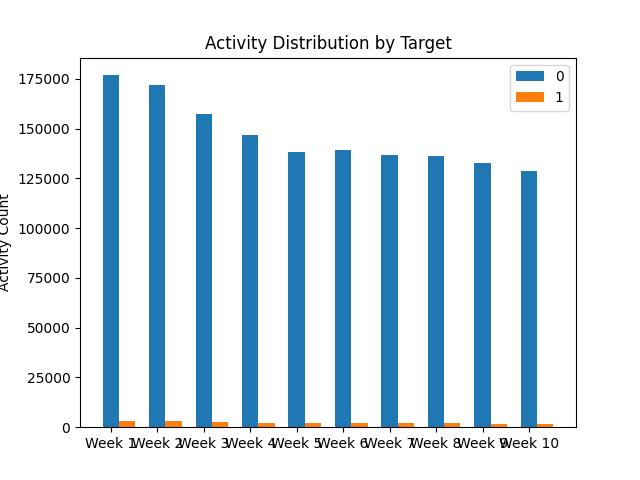
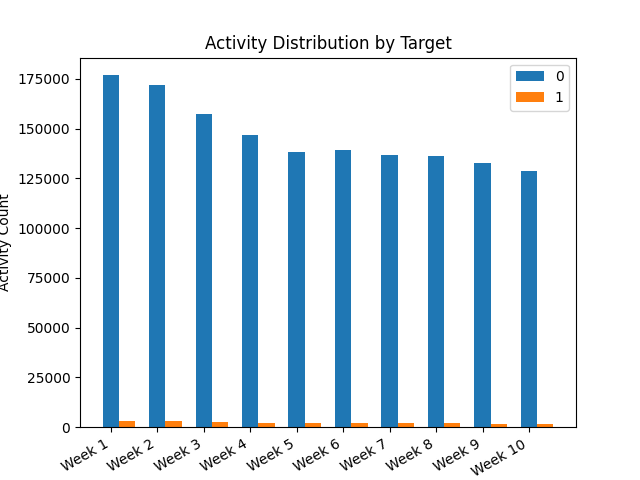
eda

Changed region(s): [[0.0938, 0.9062, 0.875, 1.0]]

diff --git a/eda.py b/eda.py
@@ -6,23 +6,63 @@ import seaborn as sns
 df_train = pd.read_csv('data/merged_countries_train.csv')
 fe_train = pd.read_csv('data/test_fe.csv')
 
-
+print(fe_train.columns.tolist())
 value_counts = df_train['target'].value_counts()
 percentage_1s = (value_counts[1] / len(df_train['target'])) * 100
 percentage_0s = (value_counts[0] / len(df_train['target'])) * 100
 print("Percentage of 1s: {:.2f}%".format(percentage_1s))
 print("Percentage of 0s: {:.2f}%".format(percentage_0s))
+print(df_train.columns.tolist())
+print(df_train.isna().sum())
 
-# print(df_train.isna().sum())
 
-#
+columns_to_plot = ['GOC_to_g_mean', 'SB_to_g_mean', 'ro_g_mean']
+fe_train_columns = ['mk_CurrentCustomer'] + columns_to_plot
+merged_df = pd.merge(fe_train[fe_train_columns], df_train[['mk_CurrentCustomer', 'target']], on='mk_CurrentCustomer')
+data_melted = merged_df.melt(id_vars=['target', 'mk_CurrentCustomer'], var_name='Column', value_name='Value')
+column_order = ['GOC_to_g_mean', 'SB_to_g_mean', 'ro_g_mean']
+plt.figure(figsize=(10, 8))
+ax = sns.barplot(x='Column', y='Value', hue='target', data=data_melted, order=column_order)
+# plt.xlabel('Column', fontsize=14)
+plt.ylabel('Mean Value')
+plt.title('Mean Values of GOC, SB and game rounds grouped by Target', fontsize=16)
+legends = ax.legend(fontsize=14)
+plt.tight_layout()
+plt.savefig('figures/Mean Value by Column and Target.png')
+plt.show()
+
+
+columns_to_plot = ['turnover_last_1day', 'turnover_last_2days', 'turnover_last_3days',
+                   'turnover_last_5days', 'turnover_last_10days', 'turnover_last_20days', 'turnover_last_70days']
+data_to_plot = df_train[columns_to_plot + ['target']]
+data_melted = data_to_plot.melt(id_vars='target', var_name='Turnover Period', value_name='Turnover')
+mean_turnover = data_melted.groupby(['Turnover Period', 'target'])['Turnover'].mean().reset_index()
+mean_turnover['Turnover Period'] = pd.Categorical(mean_turnover['Turnover Period'], categories=columns_to_plot, ordered=True)
+plt.figure(figsize=(12, 10))
+mean_turnover = mean_turnover.sort_values('Turnover Period')
+ax = sns.barplot(x='Turnover Period', y='Turnover', hue='target', data=mean_turnover)
+plt.xlabel('Turnover Period', fontsize=16)
+plt.ylabel('Mean Turnover', fontsize=16)
+plt.title('Mean Turnover by Turnover Period and Target', fontsize=16)
+ax.set_xticklabels(ax.get_xticklabels(), rotation=20, ha='right')
+legends = ax.legend(fontsize=20)
+plt.tight_layout()
+plt.savefig('figures/Mean Turnover by Turnover Period and Target.png')
+plt.show()
+
+
 class_counts = df_train['target'].value_counts()
-class_counts.plot(kind='bar')
+total_count = class_counts.sum()
+percentages = (class_counts / total_count) * 100
+ax = class_counts.plot(kind='bar')
 plt.xlabel('Target')
 plt.ylabel('Count')
 plt.title('Class Distribution')
+for i, count in enumerate(class_counts):
+    plt.text(i, count + 0.5, f'{percentages[i]:.2f}%', ha='center')
 plt.savefig('figures/Class Distribution.png')
 plt.show()
+
 
 # Distribution of 0 and 1 values by Country
 grouped_data = df_train.groupby(['country', 'target']).size().unstack(fill_value=0)
@@ -40,7 +80,7 @@ plt.savefig('figures/Distribution of 0 and 1 values by Country.png')
 plt.show()
 
 
-
+# Distribution of 0 and 1 values by Country
 activity_columns = df_train.columns[df_train.columns.str.startswith('days_g')].tolist()
 target_column = 'target'
 selected_columns = activity_columns + [target_column]
@@ -58,6 +98,7 @@ width = 0.35
 for i, column in enumerate(grouped_data.columns):
     ax.bar([val + i * width for val in x], grouped_data[column], width, label=column)
 ax.legend()
+ax.set_xticklabels(ax.get_xticklabels(), rotation=30, ha='right')
 plt.savefig('figures/Activity Distribution by Target.png')
 plt.show()
 
@@ -132,7 +173,7 @@ plt.show()
 
 
 # Successful and Cancelled Deposits
-mean_succ_dep = ['succ_dep_cnt_g{}'.format(i) for i in  range(1,11,1)]
+mean_succ_dep = ['succ_dep_cnt_g{}'.format(i) for i in range(1,11,1)]
 mean_succ_dep = df_train[mean_succ_dep].mean()
 
 mean_unsucc_dep = df_train.filter(like='unsucc_dep_cnt_g').mean()
@@ -145,8 +186,9 @@ plt.bar(weeks, mean_unsucc_dep, width=bar_width, color='#085B8E', label=' Unsucc
 plt.xlabel('Weeks')
 plt.ylabel('Number of Deposits')
 plt.title('Withdraws by Week')
-plt.xticks(weeks, ['Week ' + str(w) for w in weeks])
+plt.xticks(weeks, ['Week ' + str(w) for w in weeks], rotation=30)
 plt.legend()
+plt.tight_layout()
 plt.savefig('figures/deposits.png')
 plt.show()
 
@@ -178,8 +220,9 @@ ax.set_ylabel('Average of the total Payment Methods')
 ax.set_title('Average of the total Payment Methods by week')
 ax.set_xticks(x)
 ax.set_xticklabels(['Week 1', 'Week 2', 'Week 3', 'Week 4', 'Week 5', 'Week 6', 'Week 7', 'Week 8', 'Week 9',
-                    'Week 10'])
+                    'Week 10'], rotation=30)
 ax.legend()
+plt.tight_layout()
 plt.savefig('figures/total Payment Methods by week.png')
 plt.show()
 

diff --git a/feature_eng.py b/feature_eng.py
@@ -45,6 +45,7 @@ plt.axvline(x=index_threshold, color='k', linestyle=':', label='Selected Compone
 plt.text(index_threshold + 1, cumulative_variance_ratio[index_threshold - 1], f'{index_threshold}', va='center')
 plt.xlabel('Number of Components')
 plt.ylabel('Variance Ratio')
+plt.title('PCA Variance Ratio')
 plt.legend()
 plt.savefig('figures/pca_variance_ratio.png')
 plt.show()

diff --git a/data_handling.py b/data_handling.py
@@ -26,6 +26,7 @@ variable_groups = [
     'bon_wrt_succdep_g', 'turnover_last_', 'to_l', 'dwcanc_last_', 'dwcount_last_',
     'w_canc_count_ratio_l'
 ]
+
 not_included = [col for col in df_train.columns if not any(group in col for group in variable_groups)]
 not_included.remove('SE_total')
 not_included.remove('GI_total')
